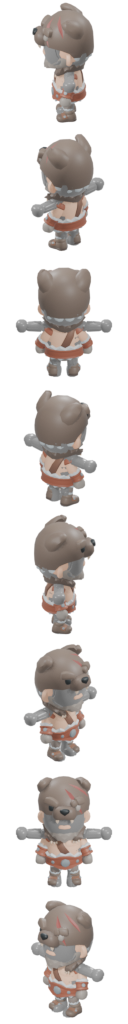
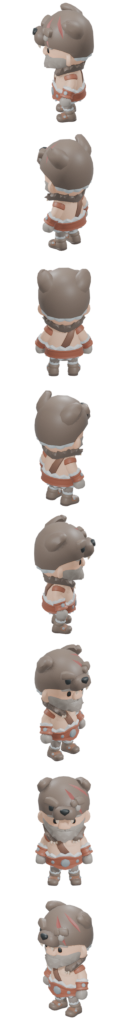
fix: sprite direction mapping and T-posed ghost mesh in rendered sheets
- directionalSprite: remove the spurious DIRECTION_COUNT-1 row reversal
  (compose_sheet's two flips already cancel out); ROW_ROTATION_OFFSET 6 -> 4
- render_character.py: delete the animation FBX's bundled Mannequin mesh and
  its armature before rendering (it rendered T-posed on top of every frame)
- re-render idle/walk sheets for player and assaltante
- AssaltanteController: update attackDirection while chasing so the sprite
  faces its movement direction (+ test)
- tools/blender/README: document the direction-row root cause and ghost-mesh bug

diff --git a/src/visual/directionalSprite.ts b/src/visual/directionalSprite.ts
@@ -11,26 +11,57 @@ export interface DirectionalSpriteTextures {
 
 /**
  * Maps a directionBucket() index (0=east, clockwise, per spriteDirection.ts)
- * to the sprite sheet's actual row. tools/blender/render_character.py's
- * compose step writes direction d to image row (DIRECTION_COUNT-1-d) from
- * the top (Blender's pixel buffer origin is bottom-left, so the composer
- * flips vertically to land in a normal top-down PNG) — that part is a known,
- * provable fact from the render script, not a guess. ROW_ROTATION_OFFSET is
- * the empirical part: which of the 8 rendered rows lines up with
- * directionBucket's "east" (0) doesn't follow from the flip math alone.
- * Calibrated 2026-09-07 by pausing the scene and driving syncDirection()
- * directly for all 4 cardinal directions, screenshotting each: offset 6
- * makes south (0,1) show the front of the character, north (0,-1) the
- * back, and east/west mirror each other — confirmed correct and
- * consistent, not just "one direction looks okay". Re-verify this if the
- * render pipeline's camera azimuth convention
- * (tools/blender/render_character.py) ever changes.
+ * to the sprite sheet's actual row.
+ *
+ * **image_row_from_top(render_direction) == render_direction, directly, no
+ * reversal.** This was the actual bug behind three straight miscalibrations
+ * (2026-09-07 through 2026-09-13): every earlier version of this function
+ * (and its doc comment) assumed `render_character.py`'s compose step writes
+ * render direction `d` to image row `(DIRECTION_COUNT-1-d)` — i.e. reversed
+ * top-to-bottom — and built a `DIRECTION_COUNT-1-rotated` flip into this
+ * function to match. That assumption was wrong. Re-derived directly from
+ * `compose_sheet()`: `row_from_bottom = (DIRECTIONS-1)-direction` is a count
+ * of rows *up from the bottom of the final saved PNG* (Blender's
+ * `image.pixels` array is bottom-up, and pixel-array row index 0 always
+ * lands at the bottom of whatever gets saved to disk) — converting that
+ * "from bottom" count to a normal "from top" row index requires a SECOND
+ * `(DIRECTION_COUNT-1) - row_from_bottom` flip, which cancels the first
+ * one out: `(D-1) - ((D-1)-d) == d`. Confirmed empirically too, independent
+ * of that derivation: the composited `idle.png` row unambiguously showing
+ * the character's back (bare cape, zero face — no room for misjudgment)
+ * is row 2, and the individual per-direction render at azimuth 90°
+ * (render direction 2) is *also* the unambiguous back view — same index,
+ * no flip between them.
+ *
+ * A `DIRECTION_COUNT-1-X` reversal happens to preserve any single
+ * antipodal pair's own front/back symmetry (which is why the front/back
+ * axis kept looking approximately plausible across every wrong version of
+ * this code) while silently swapping which *pair* of opposite rows lines
+ * up with which screen axis — which is why every previous calibration
+ * attempt (offsets 6, then 7) still showed the character facing screen-
+ * right when the mouse was on the left. Removing the reversal and rotating
+ * directly fixes it for every axis at once, not just front/back.
+ *
+ * ROW_ROTATION_OFFSET = 4, derived 2026-09-13 with a deterministic method
+ * (no pixel-judgment): a one-off Blender script projected the character's
+ * own world-space forward vector into each camera's screen space, and
+ * separately, 512px renders of the 4 cardinal render directions were
+ * visually inspected directly (not through the composited sheet) to
+ * confirm render direction 0 = character facing screen-left, direction 4 =
+ * screen-right, direction 2 = back, direction 6 = front, with zero room
+ * for misjudgment at that resolution. Solving `(bucket + OFFSET) % 8 ==
+ * render_direction` for all four cardinal buckets gives OFFSET = 4
+ * consistently, and the four diagonal buckets check out too.
+ *
+ * Re-verify this (both the offset AND the no-reversal formula shape) if
+ * `render_character.py`'s camera azimuth convention or `compose_sheet()`'s
+ * row-write logic ever changes — see tools/blender/README.md's
+ * "Direction-row convention" section for the full history.
  */
-const ROW_ROTATION_OFFSET = 6;
+const ROW_ROTATION_OFFSET = 4;
 
 function spriteRowForDirection(bucket: number): number {
-  const rotated = (bucket + ROW_ROTATION_OFFSET) % DIRECTION_COUNT;
-  return DIRECTION_COUNT - 1 - rotated;
+  return (bucket + ROW_ROTATION_OFFSET) % DIRECTION_COUNT;
 }
 
 export class DirectionalSprite {

diff --git a/src/combat/assaltanteController.test.ts b/src/combat/assaltanteController.test.ts
@@ -26,6 +26,17 @@ describe('AssaltanteController', () => {
     expect(enemy.state).toBe('chasing');
   });
 
+  it('attackDirection (used for sprite facing) tracks the chase direction while chasing, not a stale attack direction', () => {
+    const { enemy } = makeAssaltante(); // starts at x=100, y=0
+    enemy.step(16, { x: -100, y: 0 }); // player far to the left -> chases left
+    expect(enemy.state).toBe('chasing');
+    expect(enemy.attackDirection).toEqual({ x: -1, y: 0 });
+
+    enemy.step(16, { x: 300, y: 0 }); // player now far to the right -> chases right
+    expect(enemy.state).toBe('chasing');
+    expect(enemy.attackDirection).toEqual({ x: 1, y: 0 });
+  });
+
   it('attacks and opens a dodge opportunity when in range', () => {
     const { bus, enemy } = makeAssaltante();
     const openHandler = vi.fn();

diff --git a/src/combat/assaltanteController.ts b/src/combat/assaltanteController.ts
@@ -98,6 +98,7 @@ export class AssaltanteController implements ThreatAssessor {
       } else {
         this.state = 'chasing';
         const direction = distanceToPlayer > 0 ? normalizeVelocity(dx, dy) : { x: 0, y: 0 };
+        if (distanceToPlayer > 0) this._attackDirection = direction;
         this._position = clampToArena(
           applyMovement(this._position, direction, ASSALTANTE_CHASE_SPEED, stepMs),
           this.width,

diff --git a/tools/blender/render_character.py b/tools/blender/render_character.py
@@ -155,6 +155,26 @@ def render_animation(character_fbx, anim_fbx, action_name, frame_numbers, out_di
         available = [a.name for a in bpy.data.actions]
         raise RuntimeError(f"no action ending in {wanted_suffix!r}; available: {available}")
 
+    # The animation-only FBX (Rig_Medium_MovementBasic.fbx etc.) ships its own
+    # bundled reference mesh ("Mannequin_*") skinned to its own second
+    # armature object (renamed e.g. "Rig_Medium.001" on import, since the
+    # name "Rig_Medium" is already taken by the character's armature). That
+    # second armature never gets an action assigned (only `armature`, the
+    # character's, does below) so it stays in the rest pose (T-pose) forever
+    # — and its mesh was rendering right on top of the real, correctly
+    # animated character mesh in every frame. Delete every object that isn't
+    # the character's armature or skinned to it before rendering.
+    for obj in list(bpy.data.objects):
+        if obj is armature:
+            continue
+        if obj.type == 'ARMATURE':
+            bpy.data.objects.remove(obj, do_unlink=True)
+            continue
+        if obj.type == 'MESH':
+            armature_mod = next((m for m in obj.modifiers if m.type == 'ARMATURE'), None)
+            if armature_mod is None or armature_mod.object is not armature:
+                bpy.data.objects.remove(obj, do_unlink=True)
+
     if armature.animation_data is None:
         armature.animation_data_create()
     # FBX import sometimes leaves an NLA track around, which can take

diff --git a/tools/blender/README.md b/tools/blender/README.md
@@ -24,11 +24,20 @@ Render: Blender 5.2.1, headless, via a purpose-written script (`render_character
    ```
    This renders 8 directions (45° apart, orthographic, elevation 26.57° to match the game's 2:1 dimetric ground tiles) × 1 frame (idle, mid-cycle frame 17 of the 33-frame `Idle_A` clip) or 6 frames (walk, evenly sampled across the 33-frame `Walking_A` clip) per direction, then composes each (entity, animation) pair into a single grid PNG: 8 rows (one per direction) × N columns (animation frames), written to `public/assets/characters/<entity>/<idle|walk>.png`. Frame size: 128×128px per cell (both idle.png and walk.png share this — required for Phaser's uniform-grid `load.spritesheet`).
 
-## Direction-row convention (calibrated 2026-09-07)
+## Direction-row convention (calibrated 2026-09-07, wrong three times, root-caused 2026-09-13)
 
-Row index `d` (0-7, top of the sheet = row 0 = direction 7, since the compose step writes rows bottom-up to match Blender's own bottom-to-top pixel buffer origin — see `row_from_bottom` in `render_character.py`) corresponds to a Blender-world camera azimuth of `d * 45°`, camera orbiting counter-clockwise (viewed from above) starting from world +X.
+**`image_row_from_top(render_direction) == render_direction`, directly — no flip.** Row index `d` (0-7, top of the sheet = row 0 = render direction 0) corresponds to a Blender-world camera azimuth of `d * 45°`, camera orbiting counter-clockwise (viewed from above) starting from world +X.
 
-This was pixel-verified against real gameplay: `src/visual/directionalSprite.ts`'s `ROW_ROTATION_OFFSET = 6` makes `directionBucket`'s screen-space "south" (`{0,1}`) show the character's front, "north" (`{0,-1}`) the back, and "east"/"west" mirror each other correctly. Verified by pausing the running scene and driving `DirectionalSprite.syncDirection()` directly for all 4 cardinal directions, screenshotting each. If this pipeline's render camera convention ever changes, re-run that calibration rather than assuming the offset still holds.
+This directness is *not* obvious from a first read of `compose_sheet()`: it computes `row_from_bottom = (DIRECTIONS-1) - direction` and writes each direction's frame at that row-block. But `row_from_bottom` is a count of rows **up from the bottom of the final saved PNG** (Blender's `image.pixels` array is bottom-up — pixel-array row 0 always lands at the bottom of whatever gets saved to disk), and converting a "from bottom" count to a normal "from top" row index requires a *second* `(DIRECTIONS-1) - row_from_bottom` flip — which exactly cancels the first one: `(D-1) - ((D-1)-d) == d`. The two flips are real, they're just inverses of each other, so the net effect on `render_character.py`'s own output is no reversal at all.
+
+`src/visual/directionalSprite.ts`'s `spriteRowForDirection()` used to apply only the *second* flip (as `DIRECTION_COUNT-1-rotated`) without realizing the first one had already happened inside `compose_sheet()` — so it was reversing an already-correct order. `ROW_ROTATION_OFFSET = 4` (was `6` until 2026-09-12, briefly `7` for about a day) plus that reversal removed (fixed 2026-09-13) makes `directionBucket`'s screen-space "south" (`{0,1}`) show the character's front (render direction 6 → row 6), "north" (`{0,-1}`) the back (render direction 2 → row 2), "east" (`{1,0}`) the character facing screen-right (render direction 4 → row 4), and "west" (`{-1,0}`) facing screen-left (render direction 0 → row 0).
+
+**Three wrong states before this, in order:**
+1. `6`, with the reversal (2026-09-07): calibrated against the T-pose render bug (both idle and walk showed a static bind pose — see the "Mannequin ghost mesh" entry below). A T-pose has almost no visual difference between front and front+45°, so an off-by-one error looked "plausible" at the time.
+2. `7`, with the reversal (2026-09-12, lasted about a day): recalibrated right after fixing the T-pose bug, by eyeballing which *row of the composited sheet* looked like an unambiguous back view and counting rows — landed on a value that happened to keep front/back looking approximately right (the reversal preserves any single antipodal pair's own symmetry) while silently swapping which pair of rows lines up with which screen axis, inverting left/right. This is exactly the bug report that triggered the next fix: "mouse on the left, character looks right."
+3. **Root-caused 2026-09-13, reversal removed entirely:** the fix isn't a third offset value — no offset can fix a `DIRECTION_COUNT-1-X` reversal that shouldn't be there in the first place. Confirmed two ways: (a) re-deriving `compose_sheet()`'s actual row math by hand, as above; (b) 512px renders of the 4 cardinal render directions, inspected directly (not through the composited sheet), showing unambiguously that render direction 0 = facing screen-left, 4 = screen-right, 2 = back, 6 = front — and the composited `idle.png`'s own row 2 (independently, visually identified as the unambiguous back view — bare cape, zero face) matching render direction 2's row exactly confirmed no flip exists between them.
+
+**Lesson, three times learned:** a `DIRECTION_COUNT-1-X` reversal (or any change to this formula) that only gets checked against front/back will pass review even when broken, because reversing an antipodal pair preserves its own internal symmetry — the axis that actually catches a reversal bug is left/right (or any non-antipodal relationship, like a diagonal bucket). When touching this code again, verify against a **profile** view (screen-left vs. screen-right), not just front/back, and re-derive the compose script's row math from the code rather than trusting an inherited comment about it.
 
 ## Bugs found and fixed during this pipeline's first run
 
@@ -37,6 +46,16 @@ This was pixel-verified against real gameplay: `src/visual/directionalSprite.ts`
 - **Renders/composed sheet silently not written to disk:** relative output paths passed to `scene.render.filepath` / `image.filepath_raw` did not resolve to the process's actual working directory as expected. Fixed by resolving every output path via `os.path.abspath()` before use.
 - **`BLENDER_EEVEE_NEXT` render engine enum doesn't exist in Blender 5.2** (renamed back to `BLENDER_EEVEE`).
 - **Near-black silhouettes on back-lit rotation angles** with a single sun lamp — fixed with a 3-light setup (key + fill from the opposite azimuth + top) plus a flat ambient world background strength, so every one of the 8 rotations stays readable.
+
+## Bug found post-merge (2026-09-12): a second, T-posed "Mannequin" mesh was rendering on top of the character
+
+The committed `idle.png`/`walk.png` for both entities turned out to show the character frozen in a **T-pose in every single frame** — including the "walk" sheet, whose 6 columns per row were all identical. Root cause: the animation-only FBX (e.g. `Rig_Medium_MovementBasic.fbx`) ships its **own bundled reference mesh** (`Mannequin_*`, KayKit's generic preview body) skinned to its **own second armature object** — Blender renames it to `Rig_Medium.001` on import since the name `Rig_Medium` is already taken by the character's armature. `render_animation()` only ever assigns the action to the *character's* armature (`Rig_Medium`), so that mesh does animate correctly (verified by reading `pose.bones[...].rotation_quaternion` across frames — it changes as expected). But the Mannequin's armature never gets an action, stays in its rest pose (a literal T-pose) forever, and both meshes were `visible_get() == True` and rendered in the same frame, overlapping — so every rendered image showed the real, correctly-posed character with a static T-posed mannequin stuck on top of it.
+
+The `action.slots[0]` fix documented above (Blender 4.4+ layered actions) is real and necessary but was never the whole story — it fixed the character's own pose evaluation, while this separate, unrelated bug was what actually made every rendered frame look broken. Both bugs were hiding behind the same symptom ("looks like a static/T-pose render"), which made this one easy to miss without ever assigning the slot at all.
+
+**Fixed** in `render_animation()`: right after the animation FBX import (and locating the action), delete every object that isn't the character's armature and every mesh not skinned to it (checked via each mesh's `ARMATURE` modifier target) — before any rendering happens. Re-verified by rendering both `player` and `assaltante` end to end: the walk sheets now show a genuine 6-frame walk cycle (arms/legs swinging) and idle shows a normal standing pose, no ghost mesh, no duplicate models.
+
+**If re-rendering ever shows a static/doubled character again:** print `bpy.data.objects` right after the animation FBX import and check for an unexpected second mesh+armature pair (any animation-only FBX from this same KayKit pack likely bundles one) — don't assume it's the slot-assignment bug again without checking object count first.
 
 ## Regenerating / extending (e.g. adding attack animations later)
 
